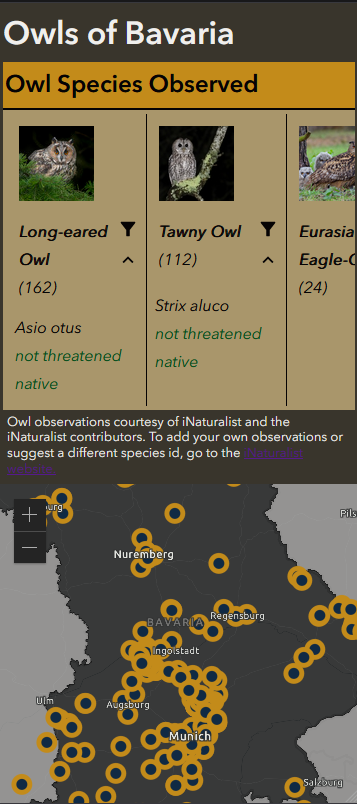
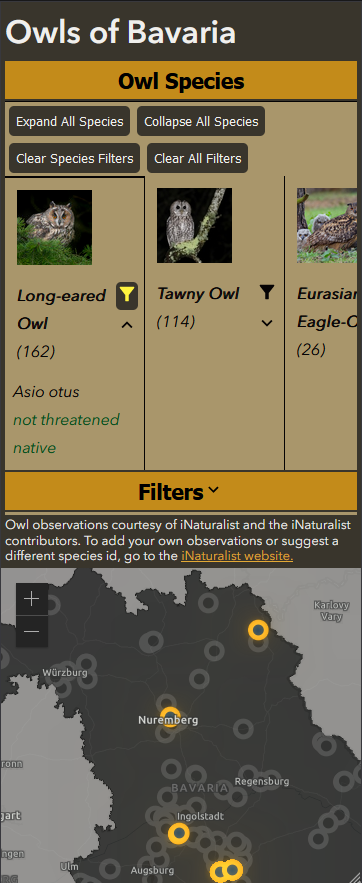
updated showcase in Readme to add new capabilities and added to customization instructions

diff --git a/README.md b/README.md
@@ -80,6 +80,10 @@ In EXTENT you will want to save coordinates for a bounding box that will limit h
 
 You may also want to adjust the DEFAULT_ZOOM depending on the size of your desired location. This will be a positive integer.
 
+An optional thing you can do in order to get the area you are observing highlighted in darker grey is to replace the [NotBayern GeoJSON file](/src/assets/NotBayern.geojson) with a file for your location. 
+
+To do this, you can follow the steps in [this John Nelson tutorial](https://www.esri.com/arcgis-blog/products/arcgis-pro/mapping/steal-this-faded-overlay-style-please/) up until the point where you get the polygon set up. Then you can export that polygon as a GeoJSON file and use it to replace the NotBayern.geojson file. (Keep the name of the file.)
+
 
 ## Showcase
 
@@ -96,6 +100,10 @@ You can filter the observations by species by selecting the filter button on the
 
 ![](docs_images/OwlsBavariaFiltered.png)
 
+Inside the Filters tab, you can also filter the observations by the year that they were observed and hide those observations that have an obscured location.
+
+![](docs_images/OwlsBavariaFiltered2.png)
+
 On the mobile version of the website, the map moves to the bottom of the page and the owl species cards move to a horizontally scrollable section at the top.
 
 ![](docs_images/OwlsBavariaMobile.png)
@@ -103,3 +111,7 @@ On the mobile version of the website, the map moves to the bottom of the page an
 When opening features on the mobile version of the website, the popup shows up below the map and can be expanded by clicking the arrow on the right.
 
 ![](docs_images/OwlsBavariaMobileObservation.png)
+
+For an example of a version of the website that has been customized with a different species and location, here you can see Jumping Spiders in Santa Cruz County, California.
+
+![](docs_images/JumpingSpidersCustomized.png)
